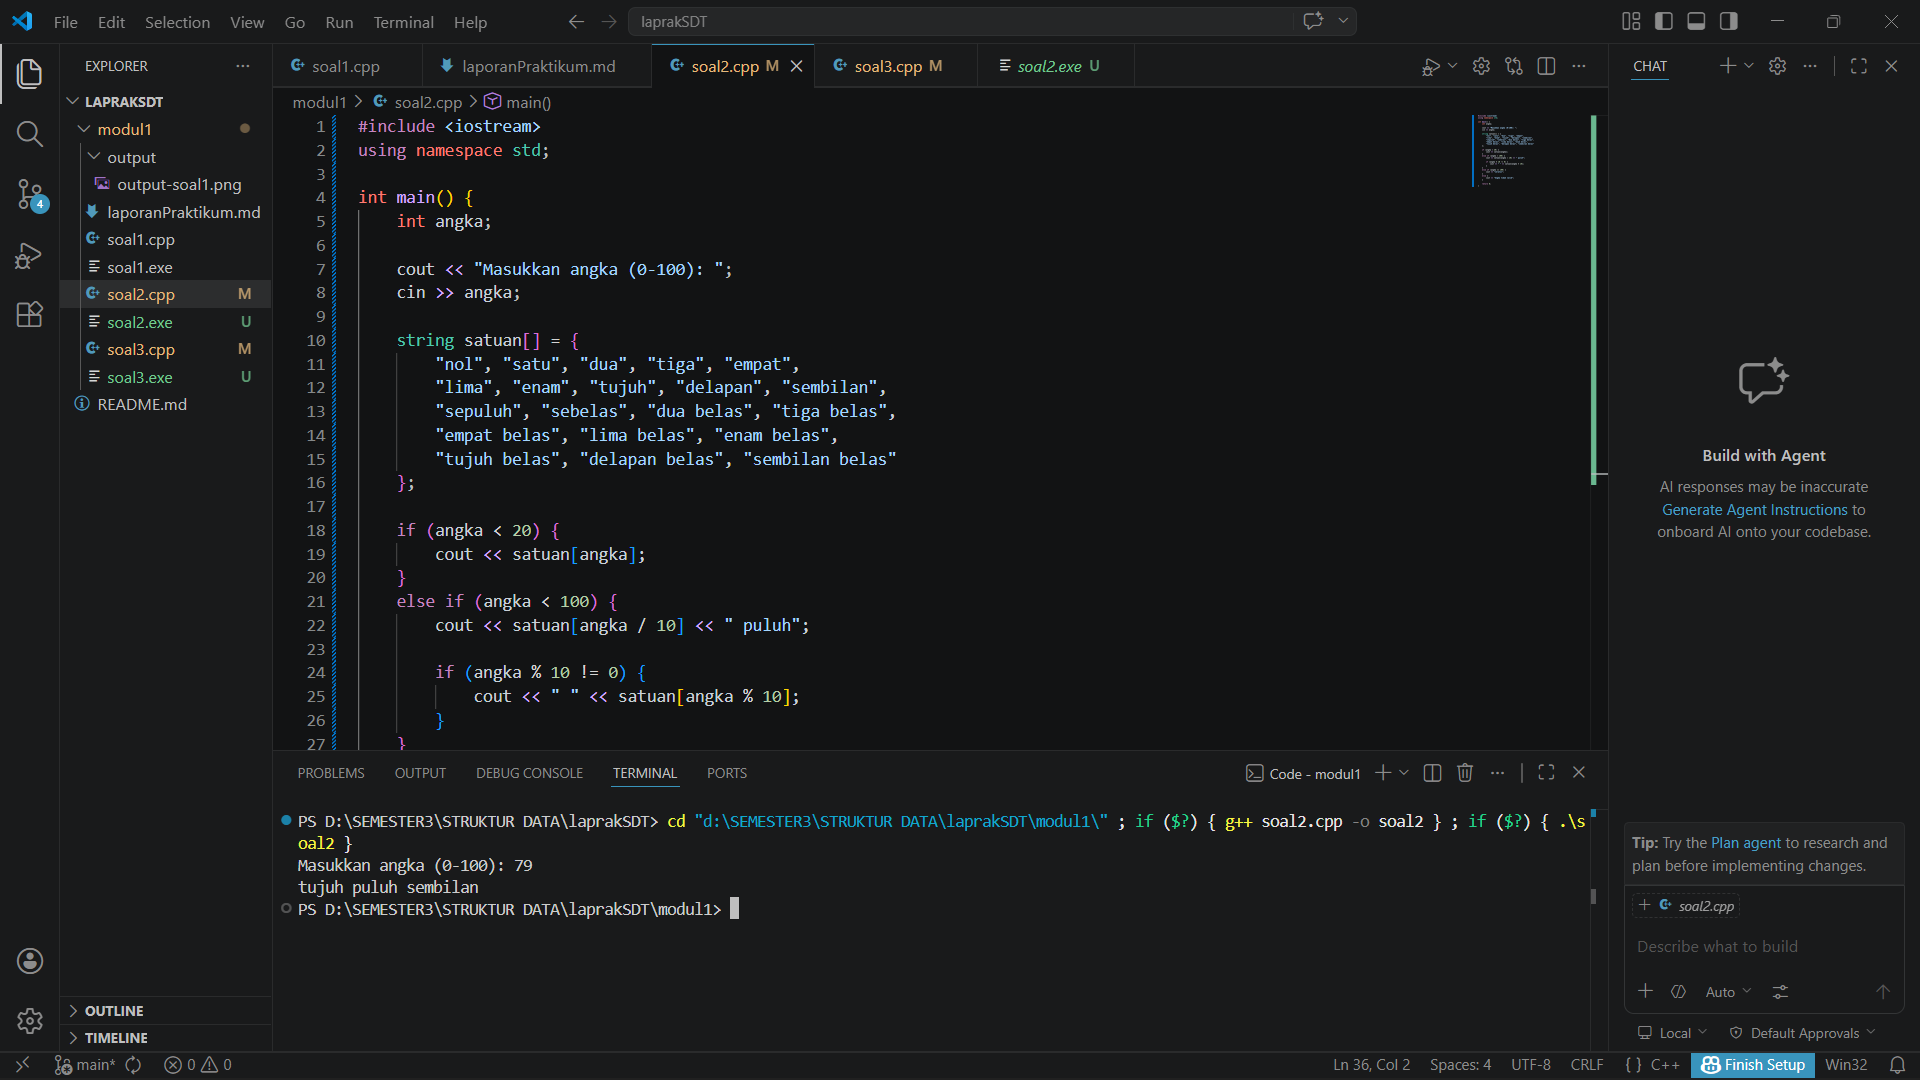
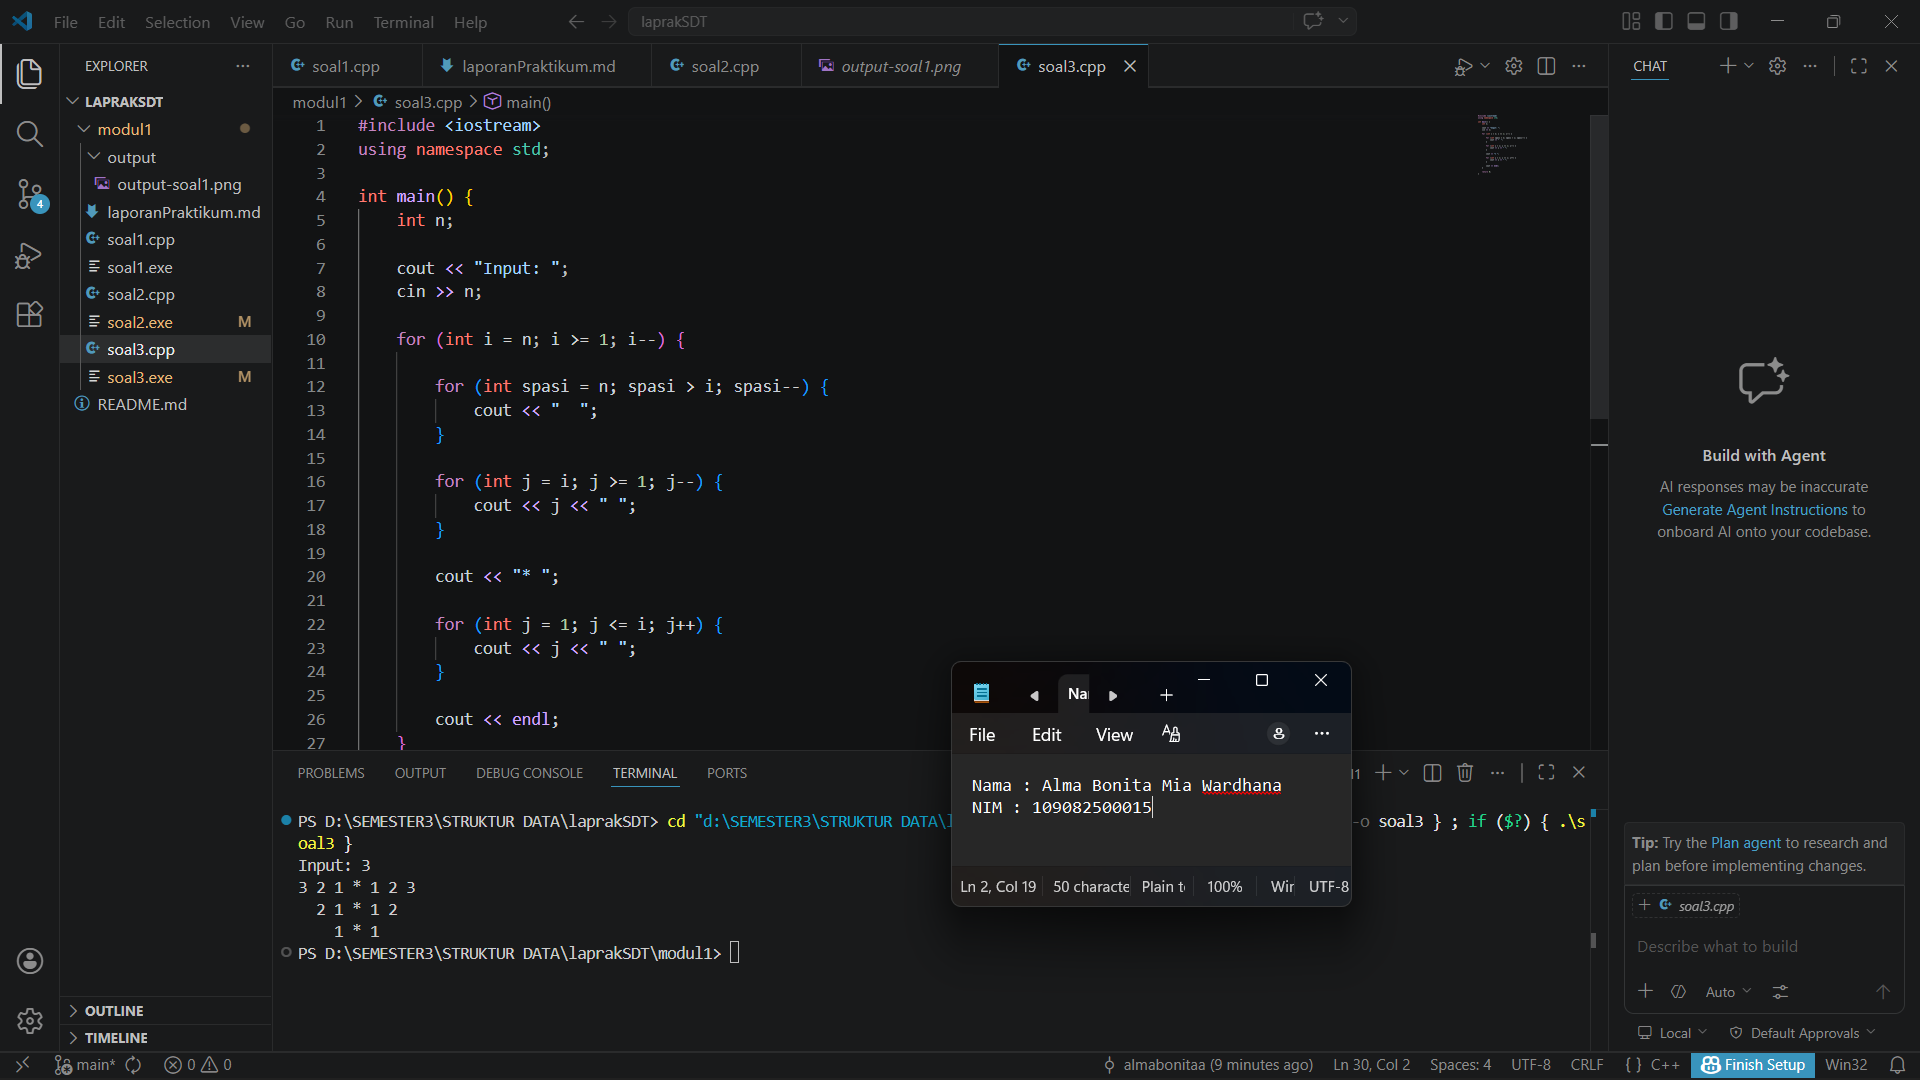
fix laprak

diff --git a/modul1/laporanPraktikum.md b/modul1/laporanPraktikum.md
@@ -258,7 +258,7 @@ int main() {
 
 ##### Output 1
 
-![Screenshot Output Unguided 1_1](https://github.com/almabonitaa/109082500015_AlmaBonitaMW_StrukturData/blob/main/output/output-soal1.png)
+![Screenshot Output Unguided 1_1](https://github.com/almabonitaa/109082500015_AlmaBonitaMW_StrukturData/blob/main/modul1/output/output-soal1.png)
 
 Program ini digunakan untuk menghitung penjumlahan, pengurangan, perkalian, dan pembagian dari dua bilangan bertipe float.
 
@@ -350,7 +350,7 @@ int main() {
 
 ##### Output 1
 
-![Screenshot Output Unguided 3_1](https://github.com/almabonitaa/109082500015_AlmaBonitaMW_StrukturData/blob/main/output/output-soal3.png)
+![Screenshot Output Unguided 3_1](https://github.com/almabonitaa/109082500015_AlmaBonitaMW_StrukturData/blob/main/modul1/output/output-soal3.png)
 
 Program ini digunakan untuk menampilkan pola angka berbentuk segitiga terbalik dengan menggunakan perulangan for.
 
